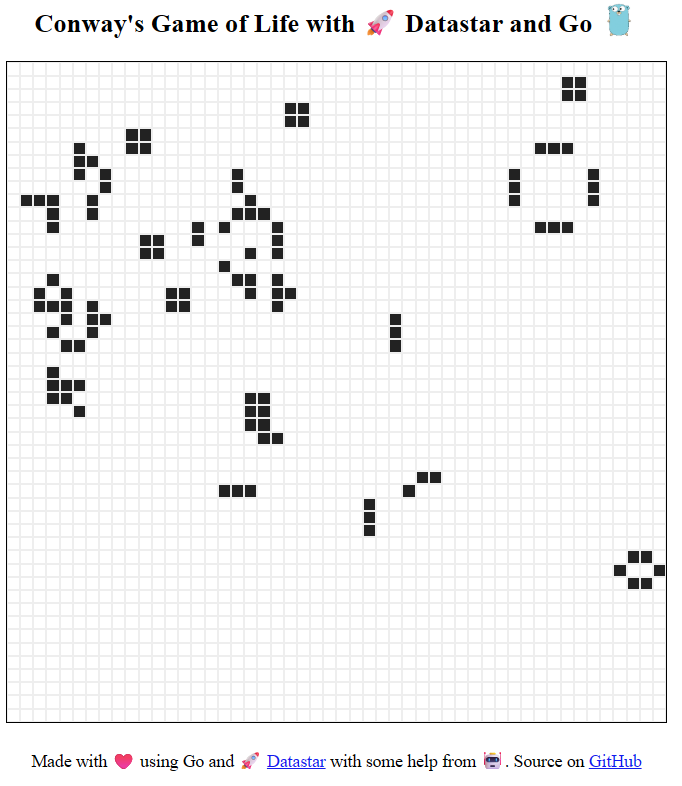
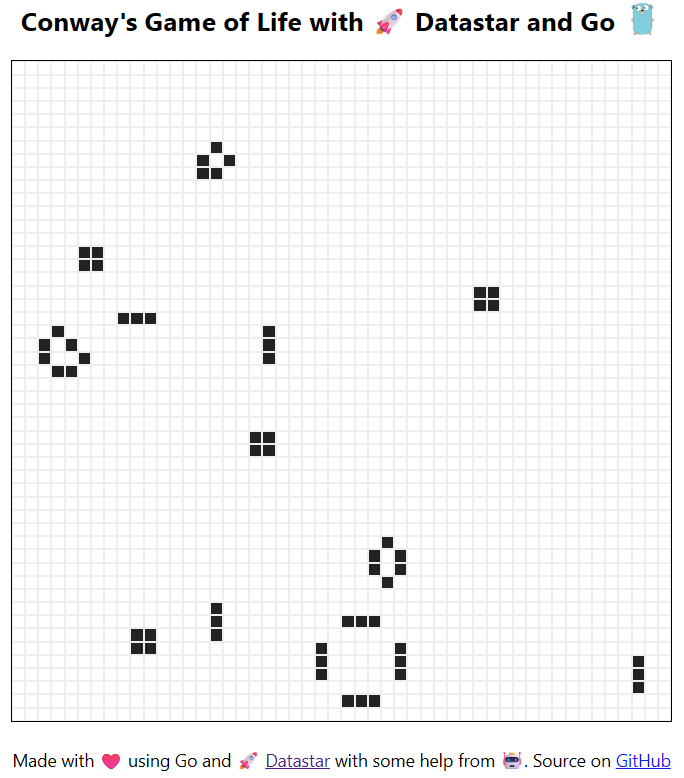
add viewport and use system fonts

diff --git a/assets/style.css b/assets/style.css
@@ -1,3 +1,7 @@
+body {
+    font-family: system-ui, sans-serif;
+}
+
 .container {
     width: 50%;
     margin-inline: auto;

diff --git a/components_templ.go b/components_templ.go
@@ -29,7 +29,7 @@ func indexPage(data pageData) templ.Component {
 			templ_7745c5c3_Var1 = templ.NopComponent
 		}
 		ctx = templ.ClearChildren(ctx)
-		templ_7745c5c3_Err = templruntime.WriteString(templ_7745c5c3_Buffer, 1, "<!doctype html><html lang=\"en\"><head><meta charset=\"UTF-8\"><link rel=\"stylesheet\" href=\"assets/style.css\"><script type=\"module\" src=\"assets/datastar.js\"></script><title>Conway's Game of Life with Datastar and Go</title></head><body><div class=\"container\"><header><h2>Conway's Game of Life with 🚀 Datastar and Go <img src=\"assets/gopher-256.png\" alt=\"Gopher\" class=\"gopher\"></h2></header><main id=\"main\" data-init=\"@post('/', {retry: 'never'})\"><div id=\"game-layout\">")
+		templ_7745c5c3_Err = templruntime.WriteString(templ_7745c5c3_Buffer, 1, "<!doctype html><html lang=\"en\"><head><meta charset=\"UTF-8\"><meta name=\"viewport\" content=\"width=device-width, initial-scale=1\"><link rel=\"stylesheet\" href=\"assets/style.css\"><script type=\"module\" src=\"assets/datastar.js\"></script><title>Conway's Game of Life with Datastar and Go</title></head><body><div class=\"container\"><header><h2>Conway's Game of Life with 🚀 Datastar and Go <img src=\"assets/gopher-256.png\" alt=\"Gopher\" class=\"gopher\"></h2></header><main id=\"main\" data-init=\"@post('/', {retry: 'never'})\"><div id=\"game-layout\">")
 		if templ_7745c5c3_Err != nil {
 			return templ_7745c5c3_Err
 		}
@@ -57,7 +57,7 @@ func indexPage(data pageData) templ.Component {
 			var templ_7745c5c3_Var2 string
 			templ_7745c5c3_Var2, templ_7745c5c3_Err = templ.JoinStringErrs(data.runtimeGOOS)
 			if templ_7745c5c3_Err != nil {
-				return templ.Error{Err: templ_7745c5c3_Err, FileName: `components.templ`, Line: 30, Col: 38}
+				return templ.Error{Err: templ_7745c5c3_Err, FileName: `components.templ`, Line: 31, Col: 38}
 			}
 			_, templ_7745c5c3_Err = templ_7745c5c3_Buffer.WriteString(templ.EscapeString(templ_7745c5c3_Var2))
 			if templ_7745c5c3_Err != nil {
@@ -70,7 +70,7 @@ func indexPage(data pageData) templ.Component {
 			var templ_7745c5c3_Var3 string
 			templ_7745c5c3_Var3, templ_7745c5c3_Err = templ.JoinStringErrs(data.runtimeGOARCH)
 			if templ_7745c5c3_Err != nil {
-				return templ.Error{Err: templ_7745c5c3_Err, FileName: `components.templ`, Line: 30, Col: 61}
+				return templ.Error{Err: templ_7745c5c3_Err, FileName: `components.templ`, Line: 31, Col: 61}
 			}
 			_, templ_7745c5c3_Err = templ_7745c5c3_Buffer.WriteString(templ.EscapeString(templ_7745c5c3_Var3))
 			if templ_7745c5c3_Err != nil {
@@ -83,7 +83,7 @@ func indexPage(data pageData) templ.Component {
 			var templ_7745c5c3_Var4 string
 			templ_7745c5c3_Var4, templ_7745c5c3_Err = templ.JoinStringErrs(data.runtimeVersion)
 			if templ_7745c5c3_Err != nil {
-				return templ.Error{Err: templ_7745c5c3_Err, FileName: `components.templ`, Line: 30, Col: 90}
+				return templ.Error{Err: templ_7745c5c3_Err, FileName: `components.templ`, Line: 31, Col: 90}
 			}
 			_, templ_7745c5c3_Err = templ_7745c5c3_Buffer.WriteString(templ.EscapeString(templ_7745c5c3_Var4))
 			if templ_7745c5c3_Err != nil {
@@ -96,7 +96,7 @@ func indexPage(data pageData) templ.Component {
 			var templ_7745c5c3_Var5 string
 			templ_7745c5c3_Var5, templ_7745c5c3_Err = templ.JoinStringErrs(data.revision)
 			if templ_7745c5c3_Err != nil {
-				return templ.Error{Err: templ_7745c5c3_Err, FileName: `components.templ`, Line: 31, Col: 25}
+				return templ.Error{Err: templ_7745c5c3_Err, FileName: `components.templ`, Line: 32, Col: 25}
 			}
 			_, templ_7745c5c3_Err = templ_7745c5c3_Buffer.WriteString(templ.EscapeString(templ_7745c5c3_Var5))
 			if templ_7745c5c3_Err != nil {
@@ -109,7 +109,7 @@ func indexPage(data pageData) templ.Component {
 			var templ_7745c5c3_Var6 string
 			templ_7745c5c3_Var6, templ_7745c5c3_Err = templ.JoinStringErrs(data.buildTS)
 			if templ_7745c5c3_Err != nil {
-				return templ.Error{Err: templ_7745c5c3_Err, FileName: `components.templ`, Line: 31, Col: 51}
+				return templ.Error{Err: templ_7745c5c3_Err, FileName: `components.templ`, Line: 32, Col: 51}
 			}
 			_, templ_7745c5c3_Err = templ_7745c5c3_Buffer.WriteString(templ.EscapeString(templ_7745c5c3_Var6))
 			if templ_7745c5c3_Err != nil {
@@ -184,7 +184,7 @@ func gameBoard(cells Cells) templ.Component {
 				var templ_7745c5c3_Var10 string
 				templ_7745c5c3_Var10, templ_7745c5c3_Err = templ.ResolveAttributeValue(x)
 				if templ_7745c5c3_Err != nil {
-					return templ.Error{Err: templ_7745c5c3_Err, FileName: `components.templ`, Line: 68, Col: 16}
+					return templ.Error{Err: templ_7745c5c3_Err, FileName: `components.templ`, Line: 69, Col: 16}
 				}
 				_, templ_7745c5c3_Err = templ_7745c5c3_Buffer.WriteString(templ_7745c5c3_Var10)
 				if templ_7745c5c3_Err != nil {
@@ -197,7 +197,7 @@ func gameBoard(cells Cells) templ.Component {
 				var templ_7745c5c3_Var11 string
 				templ_7745c5c3_Var11, templ_7745c5c3_Err = templ.ResolveAttributeValue(y)
 				if templ_7745c5c3_Err != nil {
-					return templ.Error{Err: templ_7745c5c3_Err, FileName: `components.templ`, Line: 69, Col: 16}
+					return templ.Error{Err: templ_7745c5c3_Err, FileName: `components.templ`, Line: 70, Col: 16}
 				}
 				_, templ_7745c5c3_Err = templ_7745c5c3_Buffer.WriteString(templ_7745c5c3_Var11)
 				if templ_7745c5c3_Err != nil {
@@ -249,7 +249,7 @@ func clientCount(count int) templ.Component {
 		var templ_7745c5c3_Var13 string
 		templ_7745c5c3_Var13, templ_7745c5c3_Err = templ.JoinStringErrs(count)
 		if templ_7745c5c3_Err != nil {
-			return templ.Error{Err: templ_7745c5c3_Err, FileName: `components.templ`, Line: 79, Col: 26}
+			return templ.Error{Err: templ_7745c5c3_Err, FileName: `components.templ`, Line: 80, Col: 26}
 		}
 		_, templ_7745c5c3_Err = templ_7745c5c3_Buffer.WriteString(templ.EscapeString(templ_7745c5c3_Var13))
 		if templ_7745c5c3_Err != nil {
